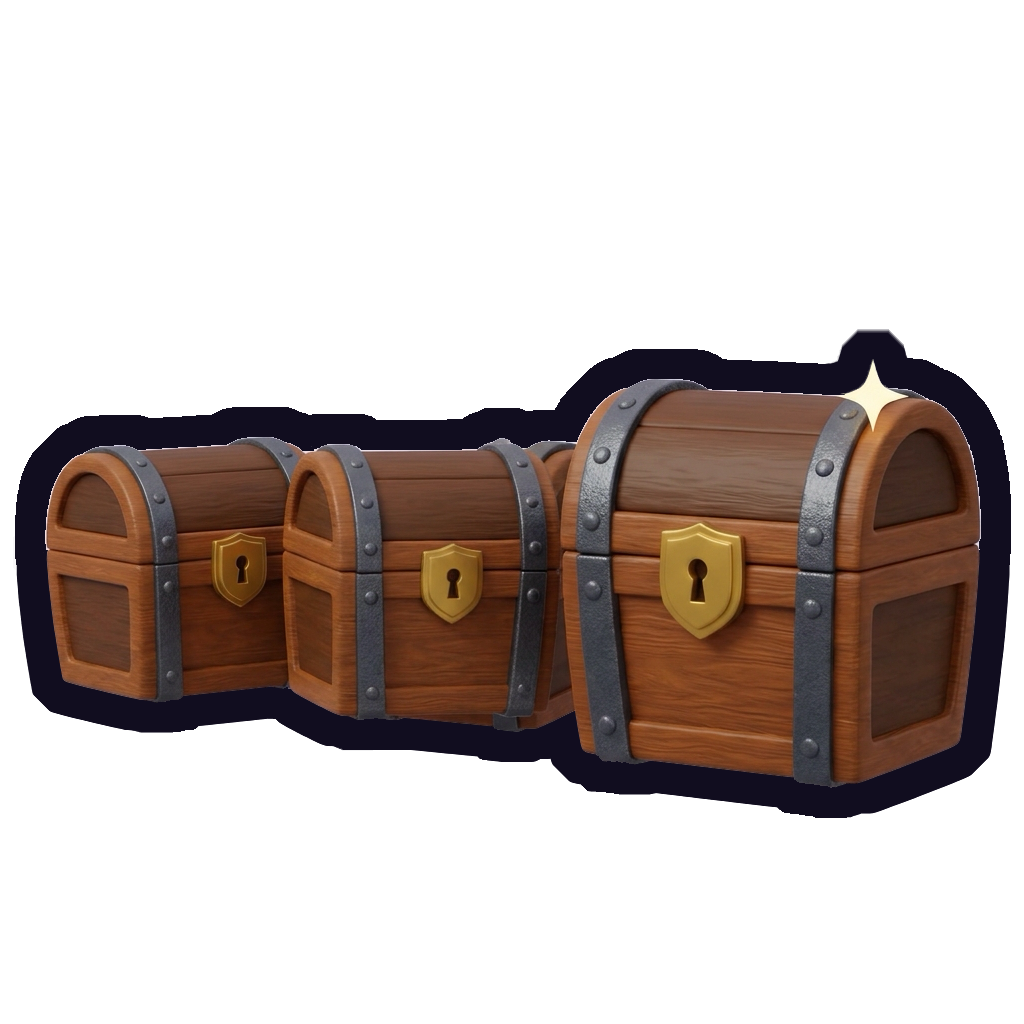
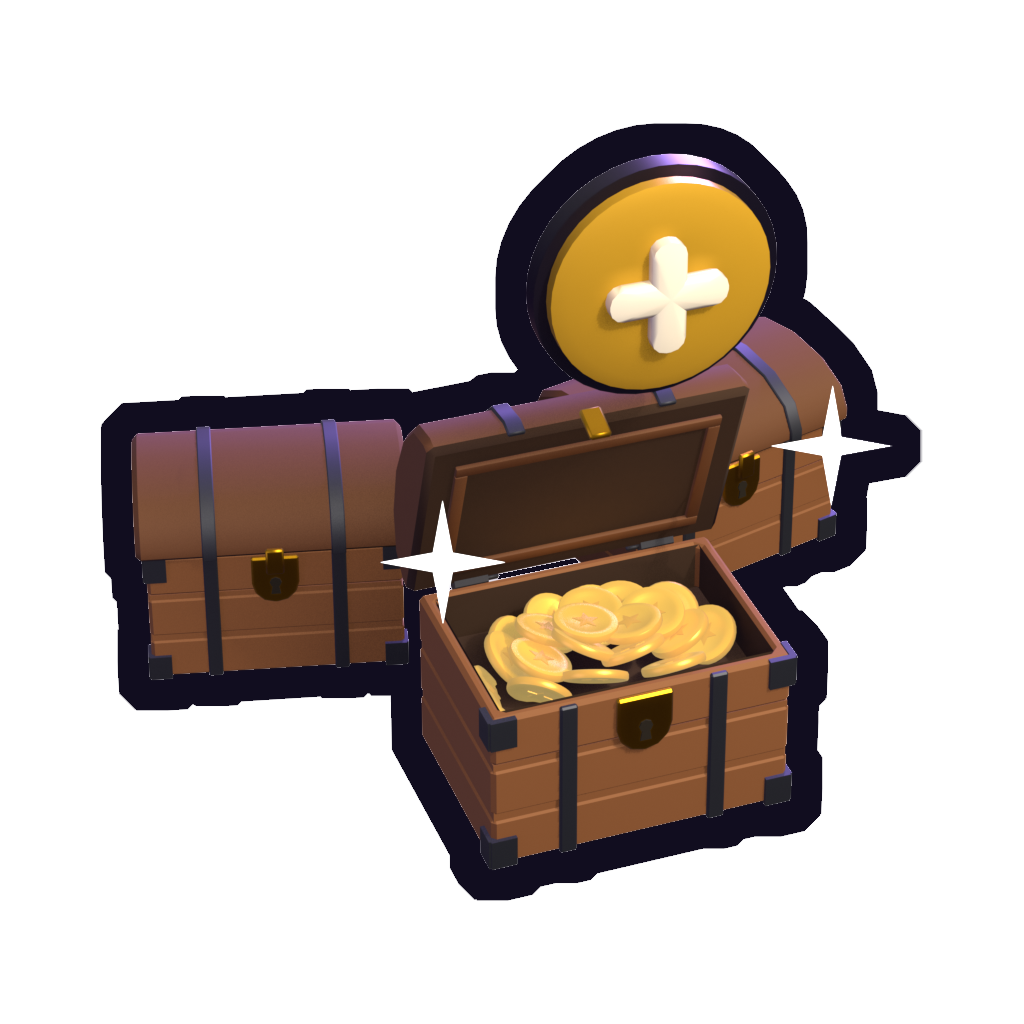
V7.1 point 4 : image « Coffre en plus » refaite avec les vrais coffres
amelioration_pieges.png (même nom, la fiche UpgradeCatalog la garde) :
2 coffres en bois du jeu au fond, 1 au premier plan entrouvert plein de pièces
qui luisent (#FFE38A), pastille « + » dorée en volume bordée d'encre, deux
éclats. Même cadrage que amelioration_coffres, 1024 px, contour noir.

diff --git a/blender/objets_icones_v7.py b/blender/objets_icones_v7.py
@@ -570,3 +570,76 @@ def construire_pas_encore_vu():
     revolution("Socle", prof, [0, 1, 1, 1, 0], [socle_m, or_], racine, 40)
     eclats(racine, [Vector((1.05, 0.3, 2.45)), Vector((-1.0, 0.3, 1.2))], taille=0.25)
     return racine
+
+
+# =========================================================================================
+# Polissage V7.1, point 4 : amélioration « Coffre en plus » (amelioration_pieges.png)
+# =========================================================================================
+def construire_coffre_en_plus():
+    """Les VRAIS coffres en bois du jeu (blender/coffre.py) : deux au fond, un troisième au
+    premier plan qui « arrive », couvercle entrouvert avec une lueur dorée #FFE38A, et une
+    pastille « + » dorée en volume au-dessus (aucun texte). Ne montre aucune chance : c'est
+    juste « un coffre de plus »."""
+    import coffre as CF
+    CF.construire()                                  # scène neuve + le coffre « Coffre »
+    scene = bpy.context.scene
+    modele = [o for o in scene.objects]
+    racine = C.vide("CoffreEnPlus")
+
+    def copie(nom, position, rot_z, echelle=1.0):
+        """Copie complète de la hiérarchie du coffre (maillages partagés)."""
+        corres = {}
+        for o in modele:
+            n = o.copy()
+            scene.collection.objects.link(n)
+            corres[o] = n
+        for o, n in corres.items():
+            n.parent = corres.get(o.parent)
+            if o.parent is None:
+                n.parent = racine
+                n.location = position
+                n.rotation_euler = (0, 0, rot_z)
+                n.scale = (echelle,) * 3
+        return next(n for o, n in corres.items() if o.parent is None)
+
+    copie("Fond_G", Vector((-1.15, -1.2, 0)), math.radians(14), 0.92)
+    copie("Fond_D", Vector((1.15, -1.2, 0)), math.radians(-14), 0.92)
+    devant = copie("Devant", Vector((0.0, 0.55, 0)), 0.0, 1.08)
+    for o in modele:
+        bpy.data.objects.remove(o, do_unlink=True)
+    # couvercle du coffre de devant entrouvert (comme Unity : rotation de la Charniere)
+    charniere = next(o for o in C.descendants(devant) if o.name.startswith("Charniere"))
+    charniere.rotation_euler = (math.radians(70), 0, 0)
+    bpy.context.view_layer.update()
+    # dedans : un tas de pièces d'or qui luit doucement (la « lueur » #FFE38A de la fiche)
+    P = Pieces(racine, 11)
+    for mat_ in (P.or_, P.or_fonce):
+        b = mat_.node_tree.nodes["Principled BSDF"]
+        b.inputs["Emission Color"].default_value = C.hex_vers_lineaire("#FFE38A")
+        b.inputs["Emission Strength"].default_value = 0.35
+    for k in range(22):
+        t = math.sqrt((k + 0.5) / 22)
+        a = k * 2.399963
+        x, y = 0.55 * t * math.cos(a) * 1.08, 0.55 + 0.32 * t * math.sin(a) * 1.08
+        z = 0.62 + 0.28 * (1 - t * t)
+        P.poser(Vector((x, y, z)), (-math.cos(a) * t, -math.sin(a) * t, 1.0), penche=0.3,
+                echelle=0.32)
+    # pastille « + » dorée au-dessus, en volume, bordée d'un liseré foncé
+    or_ = matiere("Or", "#FFC83A", 0.28, metal=0.5, vernis=0.4)
+    encre = matiere("Encre", "#110D1F", 0.4, vernis=0.2)
+    blanc = matiere("Blanc", "#FFF8E8", 0.3, vernis=0.4)
+    m = Matrix.Translation((-0.1, 0.9, 2.95))      # au-dessus du coffre de devant
+    bm = bmesh.new()
+    C.bm_coussin(bm, C.contour_ellipse(0.52, 0.52, n=40), 0.12, 0.22, m, mat=0, anneaux=3)
+    objet("Pastille", bm, [or_], racine, angle=60)
+    bm = bmesh.new()
+    C.bm_coussin(bm, C.contour_ellipse(0.58, 0.58, n=40), 0.10, 0.10,
+                 m @ Matrix.Translation((0, -0.05, 0)), mat=0, anneaux=1)
+    objet("PastilleBord", bm, [encre], racine, angle=60)
+    bm = bmesh.new()
+    for taille in ((0.56, 0.16), (0.16, 0.56)):
+        C.bm_coussin(bm, C.contour_rectangle_arrondi(taille[0], taille[1], 0.07, par_coin=3),
+                     0.06, 0.10, m @ Matrix.Translation((0, 0.13, 0)), mat=0, anneaux=2)
+    objet("Plus", bm, [blanc], racine, angle=60)
+    eclats(racine, [Vector((-0.95, 1.0, 1.95)), Vector((0.95, 1.0, 1.75))], taille=0.28)
+    return racine

diff --git a/blender/rendu_icones.py b/blender/rendu_icones.py
@@ -447,6 +447,8 @@ ICONES = {
     "echange_tonneau": dict(source=("fonction", "objets_icones_v7.construire_echange_tonneau"), elevation=28, rotation=30, largeur=0.84),
     # V7, point 10 : pictogramme « pas encore vu » de l'Index
     "pas_encore_vu": dict(source=("fonction", "objets_icones_v7.construire_pas_encore_vu"), elevation=12, rotation=0),
+    # V7.1, point 4 : « Coffre en plus » refait avec les vrais coffres (même cadrage que amelioration_coffres)
+    "amelioration_pieges": dict(source=("fonction", "objets_icones_v7.construire_coffre_en_plus"), elevation=32, largeur=0.84),
     "echange_montagne": dict(source=("fonction", "objets_icones_v7.construire_echange_montagne"), elevation=22, largeur=0.86),
 }
 

diff --git a/docs/specs/v7-a-faire.md b/docs/specs/v7-a-faire.md
@@ -49,6 +49,84 @@
     - mesure des performances au Profiler. *(14/11 : QA phase 3, 99 % des images sous 5,1 ms)*
 11. [x] *(14/11 : §17.5, puis retour 13)* **Carte d'étage** (capture de l'auteur du 13/11) : elle est chargée. La simplifier, sans jamais cacher le gain du trésor (règle d'or).
 
+## Polissage V7.1 (DA)
+
+> Passe du directeur artistique le 14/11 sur les captures `v7p2_*`, `v7p3_*`, `v7p5_*`, `v7p6_*` et
+> `qa_v7p3_*`, comparées à l'art bible §17 et aux goûts de l'auteur (épuré, esprit Renaissance et Casier,
+> L'Ascension qu'il adore). Classé **du plus fort impact visuel au plus faible**.
+> Tailles en px de référence **1920 × 1080** (en 1280 × 720, on voit les deux tiers).
+> **Décisions de l'auteur respectées** :
+> - le prix reste sur le bouton, gris s'il manque (retour 15) ;
+> - une phrase courte reste sous le nom de chaque amélioration (retour 14) ;
+> - les 8 échanges dégressifs restent.
+>
+> **Rien ici ne touche aux chances** : on ne crée ni coffre, ni boîte, ni monnaie.
+> Une capture 1280 et une capture 1920 par point avant de cocher.
+
+1. [ ] **L'Ascension, palier 4 (galaxie) : le fond fait damier.** Les losanges ressortent en gris clair sur le noir, comme un échiquier (`qa_v7p3_ascension_haut_1280.png`). C'est l'écran que l'auteur préfère, et c'est le décor le plus haut.
+   - **Correction** :
+     - dans les étages du palier 4 seulement, le motif `motif_losanges.png` passe de 6 % / 10 % à **intérieur 2,5 %, arêtes 4 %** (une 2e tuile cuite `motif_losanges_nuit.png`, ou `opacity: 0.4` sur le calque du motif dans ces bandes) ;
+     - recaler le dégradé du palier 4 : `#120D2B` en haut → `#2E2366` en bas. Contrôle à la pipette : losange ≈ `#1A1436`, arête ≈ `#231B45` ;
+     - les étoiles restent comme elles sont : c'est elles qui doivent briller, pas le carrelage.
+2. [ ] **L'Ascension : l'étage du joueur ne « brille » pas assez sur le ciel de jour.** La lueur sous le cheval se lit comme un tapis jaune plat, et le projecteur et les rayons se voient à peine sur `#A8DEFF` (`qa_v7p3_ascension_1280.png`, étage 1).
+   - **Correction (lueur)** : la lueur devient `lueur_ronde.png` en ellipse **200 × 64**, `#FFE38A`, opacité **0 % au bord → 60 % au centre**. Pas de forme pleine.
+   - **Correction (anneaux)** : deux anneaux de **3 px** `#FFD54A` qui grandissent (1 → 1,5) et s'effacent, en 1,6 s.
+   - **Correction (projecteur)** : sur les paliers 1 et 2, opacité maximale **80 %** (au lieu de 55 %). On ajoute sous le faisceau un **socle sombre** comme celui de Récupérer : `lueur_ronde.png` Ø 520, `#110D1F` à **14 %**, centré sur la dalle. Les rayons `#FFF6C8` à **55 %** ressortent alors même en plein jour.
+   - **Correction (cheval)** : le cheval garde son sautillement de 6 px.
+3. [ ] **Améliorations : la jauge de niveau se lit à l'envers, et la phrase ne se lit pas** (`v7p2_ameliorations.png`).
+   - **Jauge** : les niveaux acquis (carrés blancs cernés de noir) ressemblent à des cases à cocher vides, et les niveaux à acheter à des cases pleines. Correction :
+     - une **jauge continue** de **276 × 26** : piste `rgba(17,13,31,0.30)`, contour 3 px `#110D1F`, coins 13 ;
+     - remplissage **blanc** `#FFFFFF` → `#FFF3B0` (de haut en bas), avec un reflet blanc à 50 %, 4 px de haut ;
+     - **9 crans** de 2 px `rgba(17,13,31,0.25)` qui découpent les 10 niveaux ;
+     - « 2/10 » à droite, inchangé ;
+     - au niveau MAX, remplissage `#FFD54A`.
+   - **Phrase sous le nom** (gardée, retour 14) : elle passe à **21 px** Bold, **sans contour**, dans la couleur foncée de la famille : `#7A3E00` (Bourse magique), `#3A2390` (Coffres précieux), `#163A8C` (Coffre en plus). Deux lignes au plus, 6 px d'interligne.
+   - **Barres « Avant / Après » de Coffres précieux** : elles sont boueuses, et le bois, le bronze et l'or se confondent. Couleurs de **signal** à utiliser : Bois `#C08A5A`, Bronze `#E8853A`, Argent `#D6DEEA`, Or `#FFD54A`, Diamant `#7FE3FF`. Chaque part a un séparateur de 2 px `#110D1F`. La légende passe à **18 px** blanc, avec une pastille Ø 16 contour 2 px.
+4. [x] *(14/11, artiste 3D : `amelioration_pieges.png` refaite dans Blender avec les vrais coffres en bois — 2 au fond, 1 devant entrouvert plein de pièces qui luisent #FFE38A, pastille « + » dorée bordée d'encre, 1024 px, contour ; `blender/objets_icones_v7.py`. Capture en jeu 1280/1920 à faire par le programmeur, l'image prend la place de l'ancienne sans réglage)* **Améliorations : l'image de « Coffre en plus » est plate** : trois coffres à plat, sans contour (reste du QA phase 2, n° 12). C'est la seule image de la fenêtre qui n'a pas le rendu « jouet verni ».
+   - **Correction (artiste 3D, Blender)** : refaire `amelioration_pieges.png` en 1024 × 1024, avec les vrais modèles de coffre du jeu :
+     - **2 coffres en bois** au fond et **1 coffre au premier plan**, couvercle entrouvert d'où sort une lueur `#FFE38A` ;
+     - une **pastille « + »** dorée (`#FFC83A`, contour encre) au-dessus, en volume, sans aucun texte ;
+     - même caméra 3/4 et même lumière que `amelioration_coffres.png`, contour extérieur encre de 8 px dans l'image, fond transparent.
+5. [ ] **L'Ascension : la récompense d'un palier pas encore atteint n'a pas l'air verrouillée** (`qa_v7p3_ascension_haut_1280.png`, palier 30). La carte est en couleurs vives, le cadenas jaune de ~66 px recouvre le « +10 », et la guirlande est en couleurs.
+   - **Correction (carte)** : la carte et le diamant prennent la teinte **`#B8B4C8`** à **85 %**, comme prévu au §16.2.5. Le « +10 » reste blanc, centré, lisible.
+   - **Correction (cadenas)** : il passe à **34 × 28**, corps `#6E6A84` et anse de 22 px, contour 3 px `#110D1F`. Il est posé **à cheval sur le coin bas droit** de la carte (`right: -12px; bottom: -12px`), donc plus jamais sur le chiffre.
+   - **Correction (guirlande)** : teinte **`#A8A4BC`**, immobile, conformément au §17.2.6. Elle ne se met en couleurs et ne se balance qu'une fois le palier atteint, et ce changement devient alors une petite fête à lui seul.
+6. [ ] **Boutique, cartes de boîtes : le haut de la carte est pâle** (`qa_v7p3_boutique_classiques_1280.png`, `_pirates_1280.png`).
+   - Constat : le titre est fin et petit (~24 px), la piste de la jauge est blanchâtre, et la pastille « médaille ◆ 5 » est presque transparente.
+   - **Titre** : **30 px** Bold blanc, `text-shadow 0 3px 0 rgba(17,13,31,0.55)`, une ligne.
+   - **Jauge** : piste `rgba(17,13,31,0.30)`, contour 3 px `#110D1F`, remplissage `#FFE66B → #FFB020`. Le texte « 5 / 16 » passe à **19 px** Bold `#2A2440` sur une petite pastille blanche à 85 %, centrée.
+   - **Pastille de récompense** : fond `rgba(17,13,31,0.50)`, médaille 28 px, diamant 26 px, « 5 » **22 px** blanc.
+   - **Bouton gris** (prix gardé, retour 15) : texte « Ouvrir ◆ 5 » **blanc à 85 %**, icône à 70 %. Ajouter dessous une **mini-jauge** de **300 × 10** (`rgba(17,13,31,0.25)`, remplissage `#7FE3FF`, coins 5) : on voit combien il manque, sans phrase.
+7. [ ] **Inventaire : le badge des skins à double bonus déborde de la case.** Sur Or maudit, « ● +10 % ◆ +15 % » est écrasé dans une seule pilule (`v7p5_inventaire_or_maudit.png`).
+   - **Correction** : deux pilules séparées, h **26**, coins 13, fond `rgba(17,13,31,0.78)`, **16 px** Bold :
+     - pièces en bas à **gauche** (`left: 6px; bottom: 8px`), texte `#FFD54A` ;
+     - diamants en bas à **droite** (`right: 6px; bottom: 8px`), texte `#7FE3FF`.
+   - La règle vaut aussi pour les mini-cases de « Mes skins ».
+8. [ ] **L'Ascension, couloir de gauche : deux styles se mélangent** (`qa_v7p3_ascension_*`).
+   - Constat : le médaillon bleu de l'étage actuel et le médaillon gris du palier côtoient des numéros nus (« 2 », « 29 »). Des crans en triangle dépassent à gauche de la piste. Le jalon cadenas est posé **à côté** de la piste au lieu de dessus.
+   - **Étages ordinaires** : pastille Ø **58**, fond `rgba(17,13,31,0.45)`, contour 3 px `#110D1F`, numéro **30 px** Bold blanc. Étage déjà atteint : contour 3 px `#FFD54A`. Étage au-dessus du record : numéro `#D9D2F0` à 70 %.
+   - **Crans** : **dans** la piste (x 26 → 54), 14 × 4 px.
+   - **Jalons** : centrés sur **x = 40**.
+   - Tout le couloir suit ainsi le même rythme : pastille, médaillon, pastille.
+9. [ ] **L'Ascension : le ruban « En plein jour » flotte entre deux dalles** et mord le flanc de la dalle du dessus (`qa_v7p3_ascension_1280.png`). On ne sait pas à quel étage il appartient.
+   - **Correction (place)** : sur les dalles **normales** (étages 1, 4, 7), le ruban se pose **sur le flanc avant de sa propre dalle**, centré en x, son milieu à **y = 308** dans l'image de la dalle (côté visible 288 → 329), `rotate -2deg`.
+   - **Correction (taille)** : hauteur **80**, texte **32 px** Bold `#3A2200`.
+   - Le flanc ne porte aucune information, donc le ruban ne cache rien.
+   - Sur les dalles **de palier** (le bouton Récupérer occupe le flanc), pas de ruban : la guirlande marque déjà la fête.
+10. [ ] **Partie : la barre compacte du gain est trop discrète pour la règle d'or.** Dans « +34 · 4 coffres · ◆ 2 % », le « +34 » ne fait que ~26 px en 1920 (`qa_v7p2_jeu_accueil_1280.png`).
+    - **Correction (barre)** : hauteur **72** (au lieu de 64), `padding 0 28px`.
+    - **Correction (gain)** : pièce **40 px** + « **+34** » **40 px** Bold `#FFD54A`, `text-shadow 0 3px 0 #3A2200`, sans contour épais.
+    - **Correction (pastilles)** : « 4 coffres » et « ◆ 2 % » en **24 px** blanc à 90 %, séparés par un point Ø 6 `rgba(255,255,255,0.5)`.
+    - **Contrôle** : le gain doit être deux fois plus haut que le reste de la barre.
+11. [ ] **Boutique, Échanges : la grille est serrée et les rubans de réduction ne se lisent pas** (`qa_v7p3_boutique_diamants_1280.png`).
+    - **Grille** : 4 colonnes de **257 × 270**, **24 px** d'écart horizontal et **24 px** vertical. Les deux rangées tiennent quand on défile jusqu'à la section.
+    - **Ruban d'angle** : bande de **150 × 38** tournée de 45°, fond `#2FB35A` (bas 3 px `#1E6E3E`), « +10 % » **20 px** Bold blanc, `text-shadow 0 2px 0 #1E6E3E`. Il est découpé par la carte (`overflow: hidden`).
+    - **Gain** : **40 px** au lieu de ~36.
+    - **Bouton gris** : même traitement qu'au point 6 (texte blanc à 85 %).
+12. [ ] **Index : la pilule « Pas encore » sur chaque carte fait du bruit** (`v7p6_index_pas_encore_vu.png`). Elle se répète sur 15 cartes, alors que la silhouette « ? » dit déjà que l'objet n'est pas obtenu.
+    - **Correction** : retirer la pilule texte « Pas encore ». Les objets non obtenus gardent la silhouette « ? », plus le nom et le taux à **75 %** d'opacité.
+    - Le pictogramme `pas_encore_vu.png` reste seul dans le coin haut gauche (32 px), seulement pour les objets **jamais vus**. C'est l'esprit de la grille du Casier : la case parle, pas le texte.
+
 ## Règles de sécurité (toujours)
 - **Ne JAMAIS activer le son de l'ordinateur** (demande expresse de l'auteur) : ne pas toucher au volume du Mac (`osascript`, `afplay`, etc.), ne pas désactiver le « Mute Audio » de Unity, ne jouer aucun son à voix haute. Les sons se vérifient par le code ou les fichiers, pas en les écoutant.
 - Sauvegarde de l'auteur : la copier avant tout test, la restaurer après, et vérifier qu'elle est identique.
